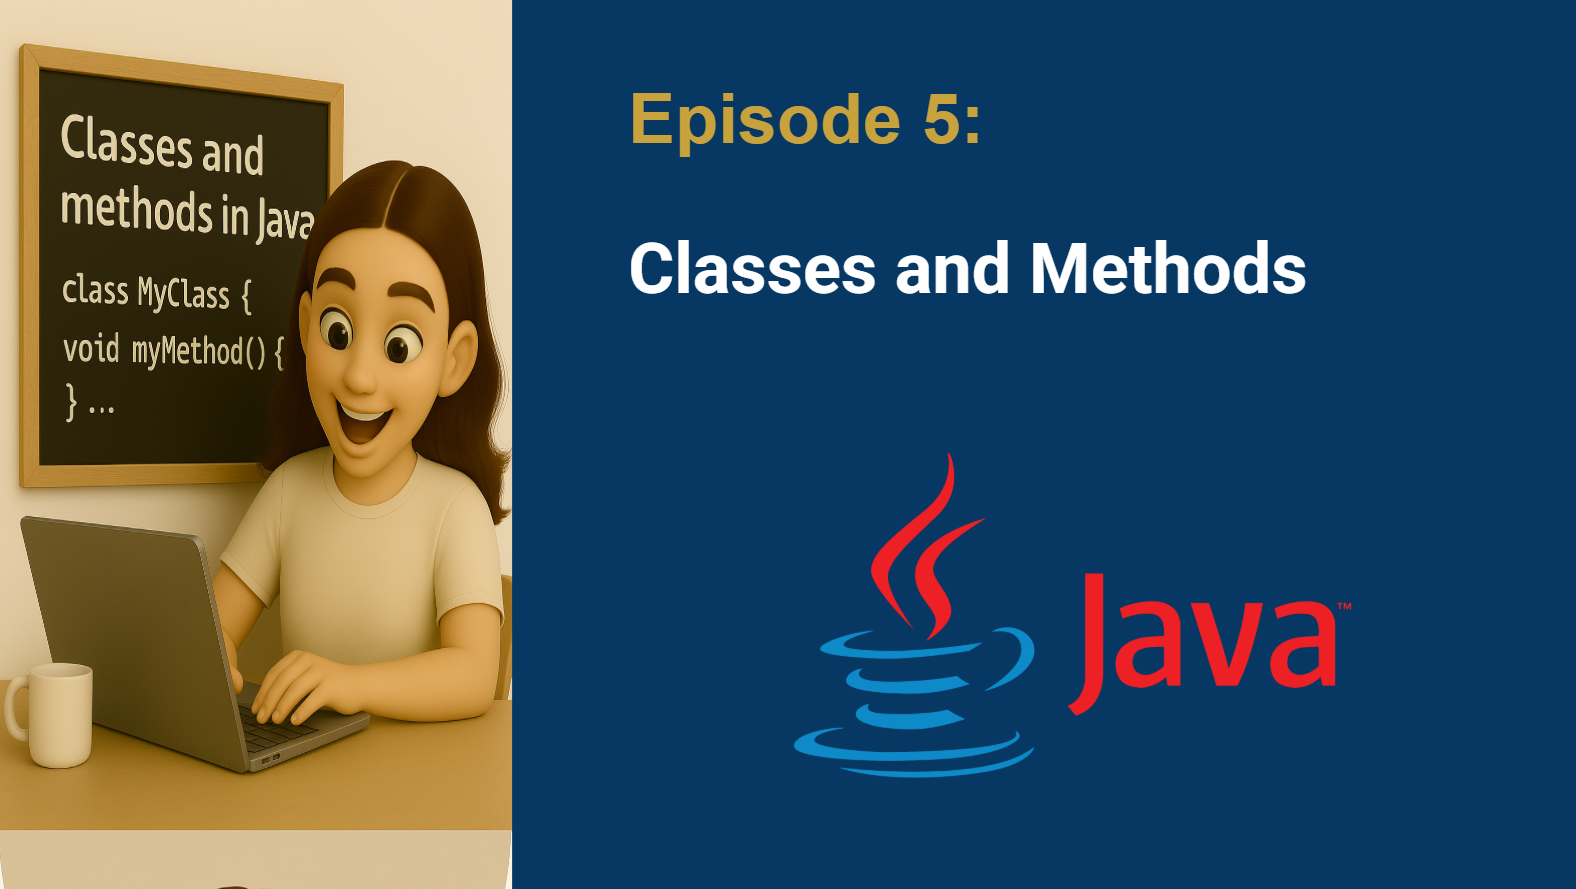
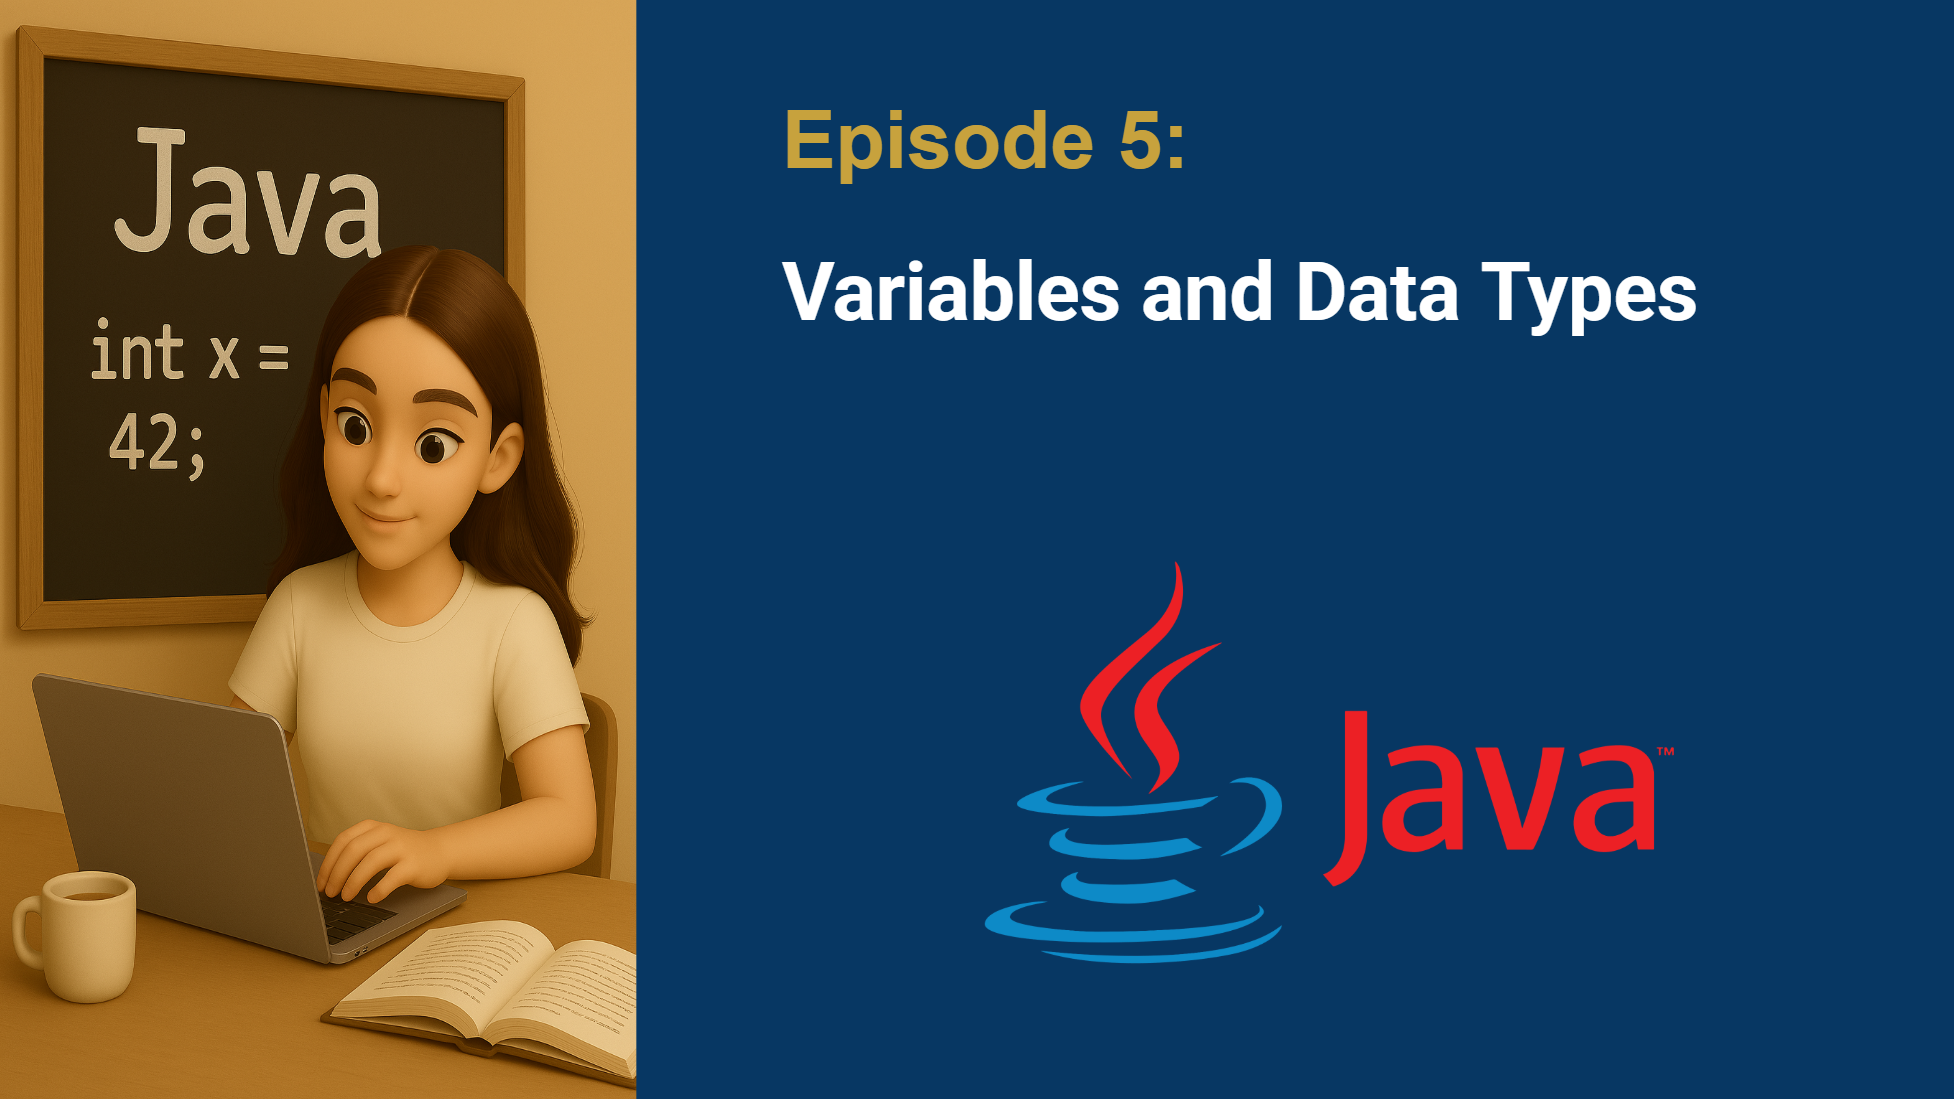
change images

diff --git a/src/main/java/org/noushin/examples/Main.java b/src/main/java/org/noushin/examples/Main.java
@@ -4,14 +4,11 @@ package org.noushin.examples;
 // click the <icon src="AllIcons.Actions.Execute"/> icon in the gutter.
 public class Main {
     public static void main(String[] args) {
-        //TIP Press <shortcut actionId="ShowIntentionActions"/> with your caret at the highlighted text
-        // to see how IntelliJ IDEA suggests fixing it.
-        System.out.printf("Hello and welcome!");
 
-        for (int i = 1; i <= 5; i++) {
-            //TIP Press <shortcut actionId="Debug"/> to start debugging your code. We have set one <icon src="AllIcons.Debugger.Db_set_breakpoint"/> breakpoint
-            // for you, but you can always add more by pressing <shortcut actionId="ToggleLineBreakpoint"/>.
-            System.out.println("i = " + i);
-        }
+        int myNum=6;
+        double myDoubleNum=5.25;
+        char myLetter='N';
+        boolean myBool=true;
+        String myText="Noushin";
     }
 }
